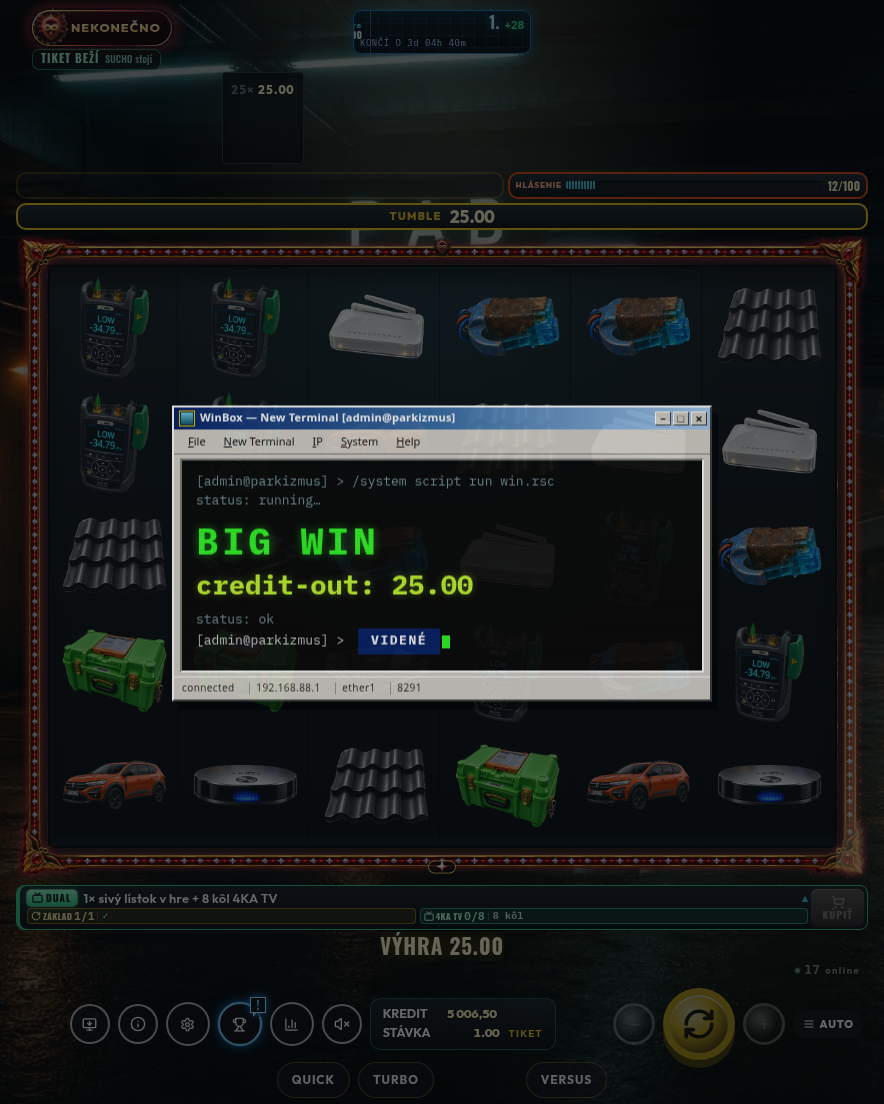
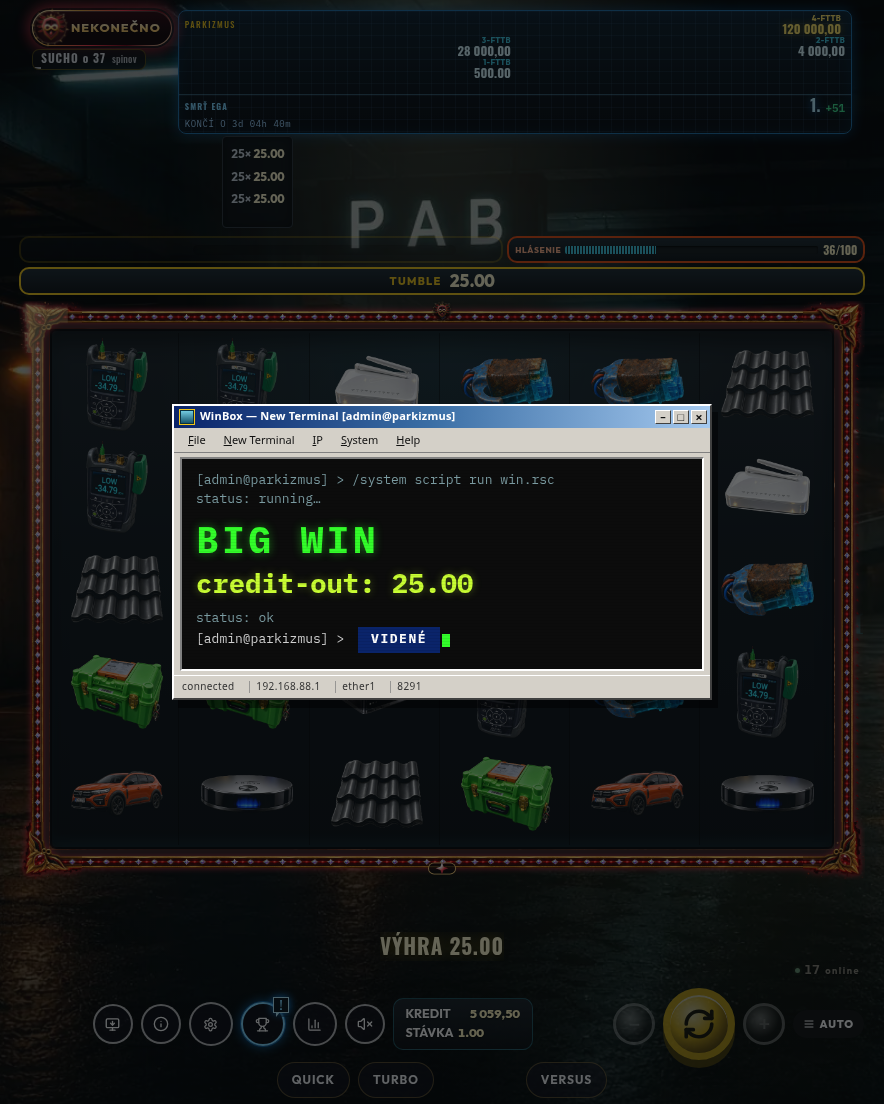
Úzka výška: jackpoty v mriežke 2×2 a celá stávka
Na úzkom portréte a na rozloženom Z Fold sedia štyri sumy v mriežke a SMRŤ EGA pod nimi. V kredite ostáva celá stávka.

diff --git a/src/components/slot/layouts.css b/src/components/slot/layouts.css
@@ -862,6 +862,18 @@
   text-align: right;
 }
 
+.stage.is-land .credit-stack .stake-line b {
+  flex: 0 0 auto;
+  min-width: max-content;
+  overflow: visible;
+}
+
+.stage.is-land .credit-stack .stake-line > span {
+  min-width: 0;
+  overflow: hidden;
+  text-overflow: ellipsis;
+}
+
 .stage.is-land .bet-lock {
   flex: 0 0 auto;
   margin: 0 0 0 4px;
@@ -1105,6 +1117,170 @@
 
 .stage.fold-flex-h.is-land .table {
   column-gap: 14px;
+}
+
+/* Narrow portrait and the unfolded Fold (portrait): jackpots on their own row,
+   SMRŤ EGA on the row under them. Labels and amounts stay whole. */
+.stage:not(.is-land):is(.shell-mw, .shell-pwa, .fold-cover) .table-head,
+.stage.fold-inner:not(.is-land) .table-head,
+:root[data-short-vp] .stage:not(.is-land):is(.shell-mw, .shell-pwa) .table-head {
+  height: auto;
+  min-height: 0;
+  max-height: none;
+  overflow: visible;
+  align-items: start;
+}
+
+.stage.fold-inner:not(.is-land) .table-head {
+  position: relative;
+  grid-template-columns: max-content minmax(0, 1fr);
+  pointer-events: auto;
+}
+
+.stage.fold-inner:not(.is-land) .head-end,
+.stage.fold-inner:not(.is-land).shell-pc .head-end {
+  grid-column: 2;
+  max-width: none;
+  width: 100%;
+}
+
+.stage:not(.is-land):is(.shell-mw, .shell-pwa, .fold-cover) .head-end:has(.ego-dock),
+.stage.fold-inner:not(.is-land) .head-end:has(.ego-dock),
+.stage.fold-inner:not(.is-land).shell-pc .head-end:has(.ego-dock) {
+  grid-template-columns: minmax(0, 1fr);
+  grid-template-rows: auto auto;
+  height: auto;
+  overflow: visible;
+}
+
+.stage:not(.is-land):is(.shell-mw, .shell-pwa, .fold-cover) .head-end:has(.ego-dock) .jp-stack.is-strip,
+.stage.fold-inner:not(.is-land) .head-end:has(.ego-dock) .jp-stack.is-strip,
+:root[data-short-vp] .stage:not(.is-land):is(.shell-mw, .shell-pwa) .head-end:has(.ego-dock) .jp-stack.is-strip {
+  display: grid;
+  grid-template-columns: minmax(0, 1fr) minmax(0, 1fr);
+  grid-auto-rows: auto;
+  align-items: center;
+  justify-items: stretch;
+  width: 100%;
+  height: auto;
+  min-height: 0;
+  max-height: none;
+  overflow: visible;
+  contain: none;
+  border-right: 0;
+  border-bottom: 1px solid rgb(125 212 255 / 0.35);
+  gap: 1px 8px;
+  padding: 3px 6px 2px;
+}
+
+.stage:not(.is-land):is(.shell-mw, .shell-pwa, .fold-cover) .head-end:has(.ego-dock) .jp-stack.is-strip .jp-row,
+.stage.fold-inner:not(.is-land) .head-end:has(.ego-dock) .jp-stack.is-strip .jp-row {
+  flex-direction: column;
+  align-items: flex-end;
+  justify-content: center;
+  gap: 0;
+  min-width: 0;
+  overflow: visible;
+}
+
+.stage:not(.is-land):is(.shell-mw, .shell-pwa, .fold-cover) .head-end:has(.ego-dock) .jp-stack.is-strip .jp-row span,
+.stage.fold-inner:not(.is-land) .head-end:has(.ego-dock) .jp-stack.is-strip .jp-row span {
+  flex: 0 0 auto;
+  max-width: 100%;
+  overflow: visible;
+  text-overflow: clip;
+  white-space: nowrap;
+  font-size: 0.48rem;
+  letter-spacing: 0.04em;
+  line-height: 1.05;
+}
+
+.stage:not(.is-land):is(.shell-mw, .shell-pwa, .fold-cover) .head-end:has(.ego-dock) .jp-row b,
+.stage.fold-inner:not(.is-land) .head-end:has(.ego-dock) .jp-row b,
+.stage:not(.is-land):is(.shell-mw, .shell-pwa, .fold-cover) .jp-stack.is-strip .jp-row.stat b,
+.stage.fold-inner:not(.is-land) .jp-stack.is-strip .jp-row.stat b,
+:root[data-short-vp] .stage:not(.is-land):is(.shell-mw, .shell-pwa) .jp-stack.is-strip .jp-row b,
+:root[data-short-vp] .stage:not(.is-land):is(.shell-mw, .shell-pwa) .jp-stack.is-strip .jp-row.stat b {
+  flex: 0 0 auto;
+  width: auto;
+  min-width: max-content;
+  max-width: 100%;
+  overflow: visible;
+  text-overflow: clip;
+  white-space: nowrap;
+  font-size: clamp(0.62rem, 2.8vw, 0.78rem);
+  line-height: 1.05;
+  text-align: right;
+}
+
+.stage:not(.is-land):is(.shell-mw, .shell-pwa, .fold-cover) .head-end:has(.ego-dock) .jp-stack.is-strip em,
+.stage.fold-inner:not(.is-land) .head-end:has(.ego-dock) .jp-stack.is-strip em {
+  position: static;
+  grid-column: 1 / -1;
+  justify-self: end;
+  width: auto;
+  pointer-events: none;
+}
+
+.stage:not(.is-land):is(.shell-mw, .shell-pwa, .fold-cover) .ego-dock,
+.stage.fold-inner:not(.is-land) .ego-dock {
+  height: auto;
+  min-height: 0;
+  overflow: visible;
+  align-content: center;
+  padding: 2px 6px 3px;
+}
+
+.stage:not(.is-land):is(.shell-mw, .shell-pwa, .fold-cover) .ego-dock-kicker,
+.stage.fold-inner:not(.is-land) .ego-dock-kicker {
+  display: block;
+}
+
+.stage:not(.is-land):is(.shell-mw, .shell-pwa, .fold-cover) .ego-dock-kicker,
+.stage:not(.is-land):is(.shell-mw, .shell-pwa, .fold-cover) .ego-dock-place,
+.stage:not(.is-land):is(.shell-mw, .shell-pwa, .fold-cover) .ego-dock-score,
+.stage:not(.is-land):is(.shell-mw, .shell-pwa, .fold-cover) .ego-dock-clock,
+.stage:not(.is-land):is(.shell-mw, .shell-pwa, .fold-cover) .ego-dock-hint,
+.stage.fold-inner:not(.is-land) .ego-dock-kicker,
+.stage.fold-inner:not(.is-land) .ego-dock-place,
+.stage.fold-inner:not(.is-land) .ego-dock-score,
+.stage.fold-inner:not(.is-land) .ego-dock-clock,
+.stage.fold-inner:not(.is-land) .ego-dock-hint {
+  overflow: visible;
+  text-overflow: clip;
+  white-space: nowrap;
+  min-width: max-content;
+  max-width: none;
+}
+
+/* Stake amount stays whole. The credit column cannot collapse under the spin cluster. */
+.stage:not(.is-land):is(.shell-mw, .shell-pwa) .bottom-hud {
+  grid-template-columns: minmax(8.6rem, 1fr) auto;
+}
+
+.stage:not(.is-land):is(.shell-mw, .shell-pwa) .credit-stack,
+:root[data-short-vp] .stage:not(.is-land):is(.shell-mw, .shell-pwa) .credit-stack {
+  min-width: 8.6rem;
+  max-height: none;
+  overflow: visible;
+}
+
+.stage:not(.is-land) .credit-stack .stake-line {
+  display: flex;
+  flex-wrap: wrap;
+  align-items: baseline;
+  column-gap: 0.35em;
+  row-gap: 0;
+  overflow: visible;
+  text-overflow: clip;
+  white-space: normal;
+}
+
+.stage:not(.is-land) .credit-stack .stake-line b {
+  flex: 0 0 auto;
+  min-width: max-content;
+  overflow: visible;
+  text-overflow: clip;
 }
 
 /* Coarse portrait from a large phone up through the unfolded inner screen and

diff --git a/src/lib/slot/changelog.ts b/src/lib/slot/changelog.ts
@@ -7,6 +7,7 @@ export interface ChangeNote {
 }
 
 export const CHANGELOG: readonly ChangeNote[] = [
+  { day: "2026-10-15", text: "Na úzkej výške sú štyri jackpoty v mriežke 2×2 a pod nimi SMRŤ EGA: miesto, RP a KONČÍ O. Sumy sa už nestrihajú. V kredite je celá stávka, aj 1.00. To isté na rozloženom Z Fold na výšku." },
   { day: "2026-10-15", text: "Na skladacom telefóne má riadok TUMBLE vlastné miesto nad valcami a suma výhry ostáva čitateľná. Okno výhry sa zmestí aj na nízku obrazovku." },
   { day: "2026-10-15", text: "Na výšku symboly znova vyplnia šírku skrinky. Medzera nad valcami a pod nimi je preč a symboly sú aspoň také veľké ako predtým. Lišta prehliadača už nerozbíja rozloženie." },
   { day: "2026-10-15", text: "Na šírku je skrinka len taká široká ako päť radov valcov. BONUS a HLÁSENIE sedia na nej a symboly nezakrývajú. Pravá lišta pohltí voľné miesto: −, + a AUTO sú celé vnútri, TIKET a online sú v karte kreditu." },

diff --git a/src/components/slot/SlotGame.tsx b/src/components/slot/SlotGame.tsx
@@ -690,9 +690,10 @@ export function SlotGame() {
               <p>
                 KREDIT <b><CountUp value={g.balance} meter /></b>
               </p>
-              <p>
-                STÁVKA <b>{formatMoney(g.stake)}</b>
-                {g.job ? <em className="bet-lock"> TIKET</em> : null}
+              <p className="stake-line">
+                <span>STÁVKA</span>
+                <b>{formatMoney(g.stake)}</b>
+                {g.job ? <em className="bet-lock">TIKET</em> : null}
               </p>
             </div>
           </div>
